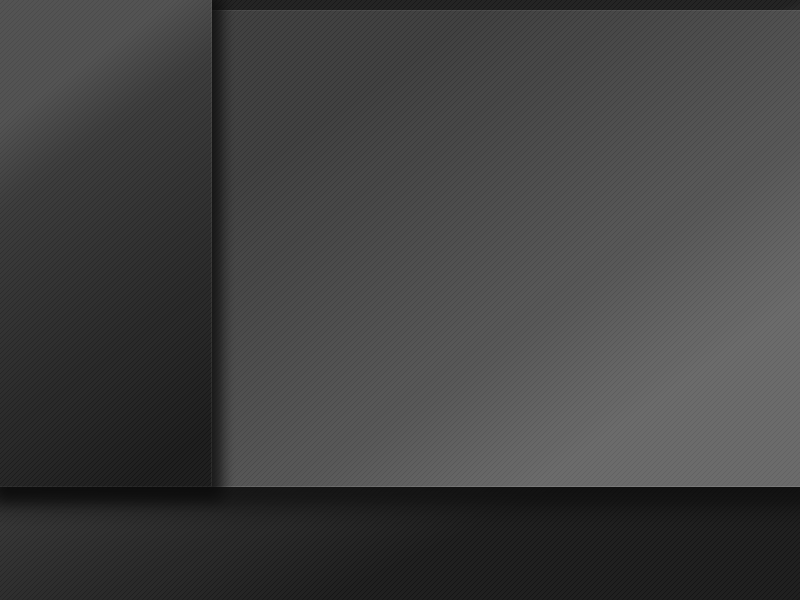
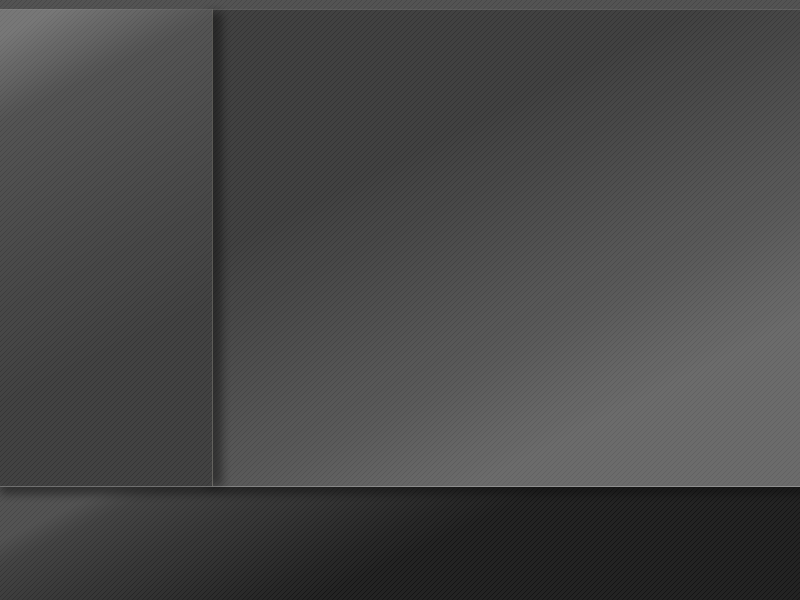
p4i integration Integrate 260054 from 4.3 to main: Fixes:    Quick remove balls + change some images fix
[git-p4: depot-paths = "//depot/qt/main/": change = 260055]

Changed region(s): [[0.0, 0.06, 0.4062, 0.93], [0.25, 0.0, 1.0, 0.03], [0.0, 0.0, 0.1875, 0.12]]

diff --git a/demos/qtdemo/src/colors.cpp b/demos/qtdemo/src/colors.cpp
@@ -51,7 +51,7 @@ bool Colors::showBoundingRect = false;
 bool Colors::showFps = false;
 bool Colors::noAdapt = false;
 bool Colors::noWindowMask = true;
-bool Colors::useButtonBalls = true;
+bool Colors::useButtonBalls = false;
 bool Colors::low = false;
 bool Colors::useEightBitPalette = false;
 bool Colors::noTimerUpdate = false;
@@ -194,8 +194,8 @@ void Colors::parseArgs(int argc, char *argv[])
             Colors::useLoop = true;
         else if (s == "-use-8bit")
             Colors::useEightBitPalette = true;
-        else if (s == "-no-balls")
-            Colors::useButtonBalls = false;
+        else if (s == "-use-balls")
+            Colors::useButtonBalls = true;
         else if (s.startsWith("-ticker-letters"))
             Colors::tickerLetterCount = int(parseFloat(s, "-ticker-letters"));
         else if (s.startsWith("-ticker-text"))
@@ -212,7 +212,7 @@ void Colors::parseArgs(int argc, char *argv[])
             QMessageBox::warning(0, "Arguments",
                                  QString("Usage: qtdemo [-no-adapt] [-no-opengl] [-no-ticker] [-no-rescale] ")
                                  + "[-no-animations] [-no-blending] [-no-sync] [-use-timer-update[0|1]] [-use-window-mask] [-fullscreen] "
-                                 + "[-use-pixmaps] [-show-fps] [-show-br] [-use-8bit] [-use-loop] [-no-balls] [-animation-speed<float>] [-fps<int>] "
+                                 + "[-use-pixmaps] [-show-fps] [-show-br] [-use-8bit] [-use-loop] [-use-balls] [-animation-speed<float>] [-fps<int>] "
                                  + "[-low] [-ticker-letters<int>] [-ticker-speed<float>] [-no-ticker-morph] "
                                  + "[-ticker-morph-speed<float>] [-ticker-text<string>]");
             exit(0);

diff --git a/demos/qtdemo/src/mainwindow.cpp b/demos/qtdemo/src/mainwindow.cpp
@@ -343,7 +343,7 @@ void MainWindow::resizeEvent(QResizeEvent *event)
         QRectF ttb = this->trolltechLogo->boundingRect();
         this->trolltechLogo->setPos(int((r.width() - ttb.width()) / 2), 595 - ttb.height());
         QRectF qtb = this->qtLogo->boundingRect();
-        this->qtLogo->setPos(802 - qtb.width(), 10);
+        this->qtLogo->setPos(802 - qtb.width(), 0);
     }
     
     // Changing size will almost always
